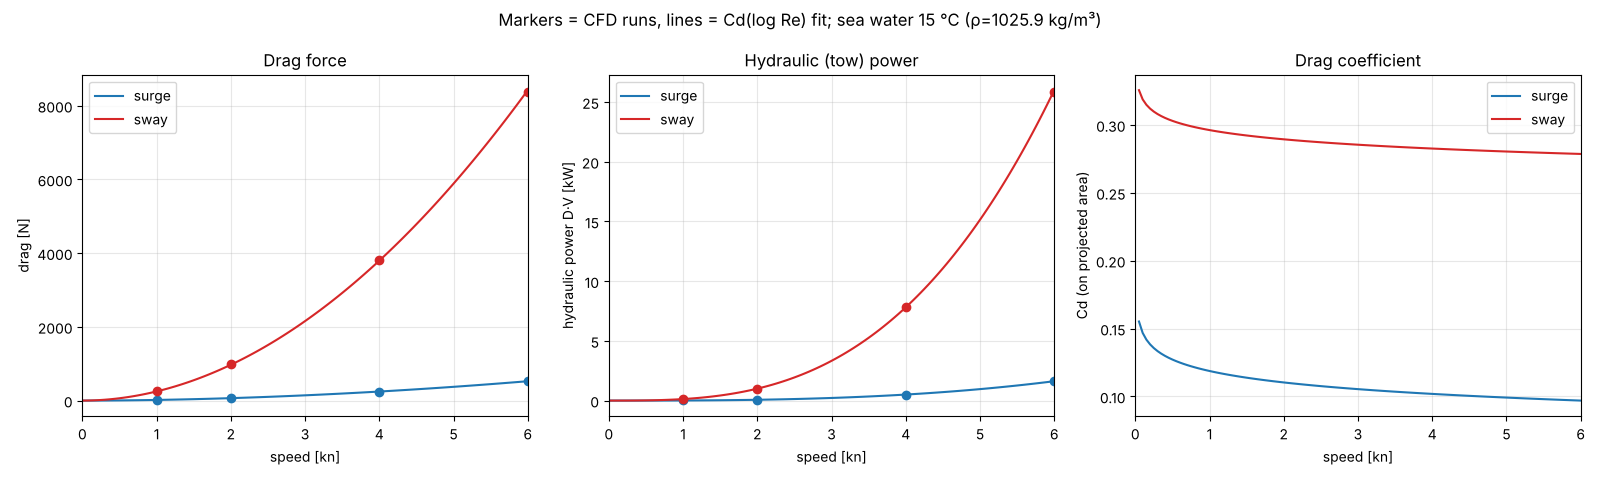
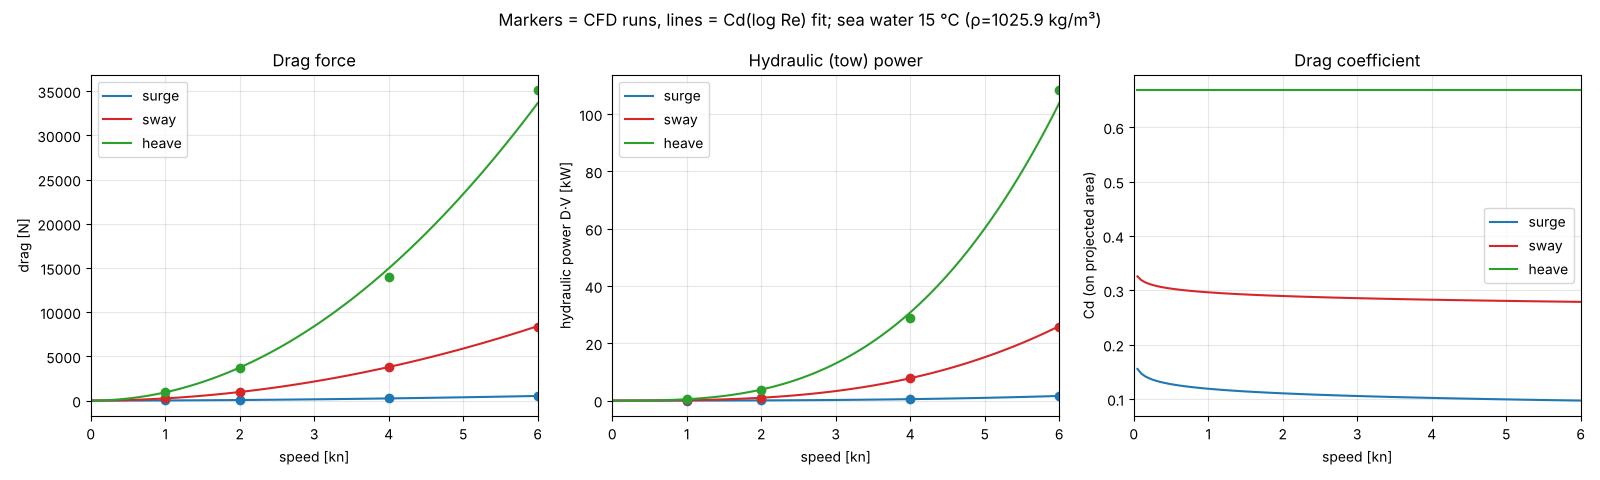
Add coarse-mesh heave results; constant-Cd fit for heave
Claude-Session: https://claude.ai/code/session_018pjspvFRaQcFFe247BRNgP

diff --git a/scripts/postprocess.py b/scripts/postprocess.py
@@ -8,6 +8,8 @@ ROOT = os.path.dirname(os.path.dirname(os.path.abspath(__file__)))
 OUT = os.path.join(ROOT, 'results'); FIG = os.path.join(OUT, 'figures'); os.makedirs(FIG, exist_ok=True)
 KN = 0.514444
 AXES = ['surge', 'sway', 'heave']
+# heave: steady-RANS Cd scatters +-5 % between speeds with no Re trend (wandering separated wake)
+CONST_CD = {'heave'}
 COL = {'surge': '#1f77b4', 'sway': '#d62728', 'heave': '#2ca02c'}
 
 
@@ -60,11 +62,14 @@ def main():
         if len(pr) < 2:
             continue
         lr = np.log10([r['Re'] for r in pr]); cd = np.array([r['Cd'] for r in pr])
-        c1, c0 = np.polyfit(lr, cd, 1)
+        if ax in CONST_CD:   # Cd scatter is solver noise (unsteady wake), not a Re trend: use the mean
+            c1, c0 = 0.0, float(cd.mean())
+        else:
+            c1, c0 = np.polyfit(lr, cd, 1)
         med = [r for r in rows if r['axis'] == ax and r['mesh'] == 'medium' and r['kn'] == 6]
         c6 = [r for r in pr if r['kn'] == 6]
         corr = med[0]['D'] / c6[0]['D'] if med and c6 else 1.0
-        table[ax] = dict(fit=(c0, c1), corr=corr, A=pr[0]['A'], L=pr[0]['Re'] * 1.1883e-6 / pr[0]['V'],
+        table[ax] = dict(fit=(c0, c1), corr=corr, cd_min=float(cd.min()), cd_max=float(cd.max()), A=pr[0]['A'], L=pr[0]['Re'] * 1.1883e-6 / pr[0]['V'],
                          pts=[(r['kn'], r['D'] * corr, r['P'] * corr) for r in pr])
     kns = np.round(np.arange(0.5, 6.01, 0.5), 2)
     rho, nu = 1025.9, 1.1883e-6
@@ -79,6 +84,7 @@ def main():
                 cells.append(f'{D:.1f},{D * V:.1f},{Cd:.4f}')
             f.write(f'{k:g},{V:.4f},' + ','.join(cells) + '\n')
     json.dump({a: dict(Cd_fit_c0=t['fit'][0], Cd_fit_c1_per_log10Re=t['fit'][1], grid_correction=t['corr'],
+                       Cd_runs_min=t['cd_min'], Cd_runs_max=t['cd_max'], fit='constant (mean)' if a in CONST_CD else 'c0 + c1*log10(Re)',
                        A_proj_m2=t['A'], L_ref_m=t['L']) for a, t in table.items()},
               open(os.path.join(OUT, 'fit_coefficients.json'), 'w'), indent=1)
 
